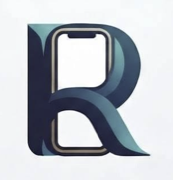
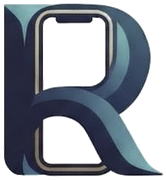
Use compact transparent hero mark aligned with global site patterns.
Remove oversized hero image column; blend logo via alpha PNG beside the title.

diff --git a/css/site.css b/css/site.css
@@ -148,73 +148,43 @@ h1, h2, h3, h4 {
 .page { padding-block: clamp(20px, 4vw, 36px); }
 
 .hero-home {
+    max-width: 40rem;
+}
+
+.hero-copy {
     display: grid;
-    gap: 22px;
-    align-items: center;
+    gap: 16px;
 }
 
-@media (min-width: 860px) {
-    /* عمود أوسع للشعار (العمود الثاني في RTL = جهة اليسار) */
-    .hero-home { grid-template-columns: minmax(0, 0.92fr) minmax(0, 1.48fr); }
-}
-
-.hero-logo-stage {
-    position: relative;
+.hero-brand {
     display: flex;
-    justify-content: center;
-    align-items: center;
-    width: 100%;
-    padding: clamp(8px, 2vw, 20px);
+    align-items: flex-start;
+    gap: clamp(12px, 3vw, 18px);
 }
 
-.hero-logo-stage picture {
-    display: block;
-    width: clamp(320px, 54vw, 620px);
-    max-width: 100%;
-    margin-inline: auto;
-}
-
-.hero-logo-stage::before {
-    content: "";
-    position: absolute;
-    width: clamp(320px, 54vw, 620px);
-    max-width: 100%;
-    aspect-ratio: 500 / 520;
-    border-radius: 42%;
-    background: radial-gradient(
-        ellipse 70% 65% at 50% 42%,
-        rgba(69, 181, 175, 0.26) 0%,
-        rgba(31, 106, 115, 0.08) 50%,
-        transparent 72%
-    );
-    animation: logoGlow 6s ease-in-out infinite;
-    pointer-events: none;
-}
-
-.hero-logo {
-    position: relative;
-    z-index: 1;
-    display: block;
-    width: clamp(320px, 54vw, 620px);
-    max-width: 100%;
+.hero-mark {
+    width: clamp(56px, 14vw, 80px);
     height: auto;
-    margin-inline: auto;
+    flex-shrink: 0;
     object-fit: contain;
-    object-position: center;
-    filter: drop-shadow(0 22px 44px rgba(13, 37, 42, 0.16));
-    animation: floatLogo 5s ease-in-out infinite;
-    transform: scaleX(1.06);
-    transform-origin: center center;
+    filter: drop-shadow(0 6px 14px rgba(4, 47, 46, 0.12));
 }
 
-@keyframes floatLogo {
-    0%, 100% { transform: scaleX(1.06) translateY(0); }
-    50% { transform: scaleX(1.06) translateY(-8px); }
+.hero-brand__text {
+    flex: 1;
+    min-width: 0;
 }
 
-@keyframes logoGlow {
-    0%, 100% { transform: scale(1); opacity: 1; }
-    50% { transform: scale(1.05); opacity: 0.88; }
+.hero-brand__text .badge {
+    margin-bottom: 8px;
+}
+
+.hero-brand__text h1 {
+    margin-bottom: 4px;
+}
+
+.hero-brand__text .subtitle {
+    margin-bottom: 0;
 }
 
 .badge {
@@ -549,23 +519,8 @@ a.card:hover {
 
 /* ——— ترتيب الجوال ——— */
 @media (max-width: 859px) {
-    .hero-home {
-        grid-template-columns: 1fr;
-        text-align: center;
-    }
-
-    .hero-home .badge,
-    .hero-home .lead {
-        margin-inline: auto;
-    }
-
-    .hero-home .actions {
-        justify-content: center;
-    }
-
-    .hero-logo-stage {
-        order: -1;
-        padding-top: 0;
+    .hero-brand {
+        align-items: center;
     }
 
     .quick-grid {
@@ -576,7 +531,6 @@ a.card:hover {
 
 @media (prefers-reduced-motion: reduce) {
     html { scroll-behavior: auto; }
-    .hero-logo, .hero-logo-stage::before, .badge-dot { animation: none; }
-    .hero-logo { transform: scaleX(1.06); }
+    .badge-dot { animation: none; }
     .btn, .card { transition: none; }
 }

diff --git a/index.html b/index.html
@@ -44,30 +44,30 @@
 
     <main class="container page">
         <section class="hero-home" aria-labelledby="home-title">
-            <div>
-                <p class="badge"><span class="badge-dot" aria-hidden="true"></span>متاح لمشاريع التطبيقات والحلول الرقمية</p>
-                <h1 id="home-title">رّداد الماجدي</h1>
-                <p class="subtitle">مطور تطبيقات جوال ومبتكر حلول رقمية</p>
+            <div class="hero-copy">
+                <div class="hero-brand">
+                    <img
+                        class="hero-mark"
+                        src="/assets/logo-hero.png"
+                        srcset="/assets/logo.png 2x"
+                        alt=""
+                        width="88"
+                        height="92"
+                        loading="eager"
+                        decoding="async"
+                        fetchpriority="high"
+                    >
+                    <div class="hero-brand__text">
+                        <p class="badge"><span class="badge-dot" aria-hidden="true"></span>متاح لمشاريع التطبيقات والحلول الرقمية</p>
+                        <h1 id="home-title">رّداد الماجدي</h1>
+                        <p class="subtitle">مطور تطبيقات جوال ومبتكر حلول رقمية</p>
+                    </div>
+                </div>
                 <p class="lead">أحوّل الأفكار إلى منتجات جاهزة — من التصميم والتطوير إلى النشر والدعم عبر بوابة عملاء منظمة.</p>
                 <div class="actions">
                     <a href="/request.html" class="btn btn-primary">سجّل فكرة تطبيقك</a>
                     <a href="/services.html" class="btn btn-secondary">عرض الخدمات</a>
                 </div>
-            </div>
-            <div class="hero-logo-stage">
-                <picture>
-                    <source type="image/png" srcset="/assets/logo@2x.png 2x, /assets/logo.png 1x">
-                    <img
-                        class="hero-logo"
-                        src="/assets/logo.png"
-                        alt="شعار رّداد — حرف R مع تطبيق جوال بتدرج أخضر"
-                        width="496"
-                        height="516"
-                        loading="eager"
-                        decoding="async"
-                        fetchpriority="high"
-                    >
-                </picture>
             </div>
         </section>
 
